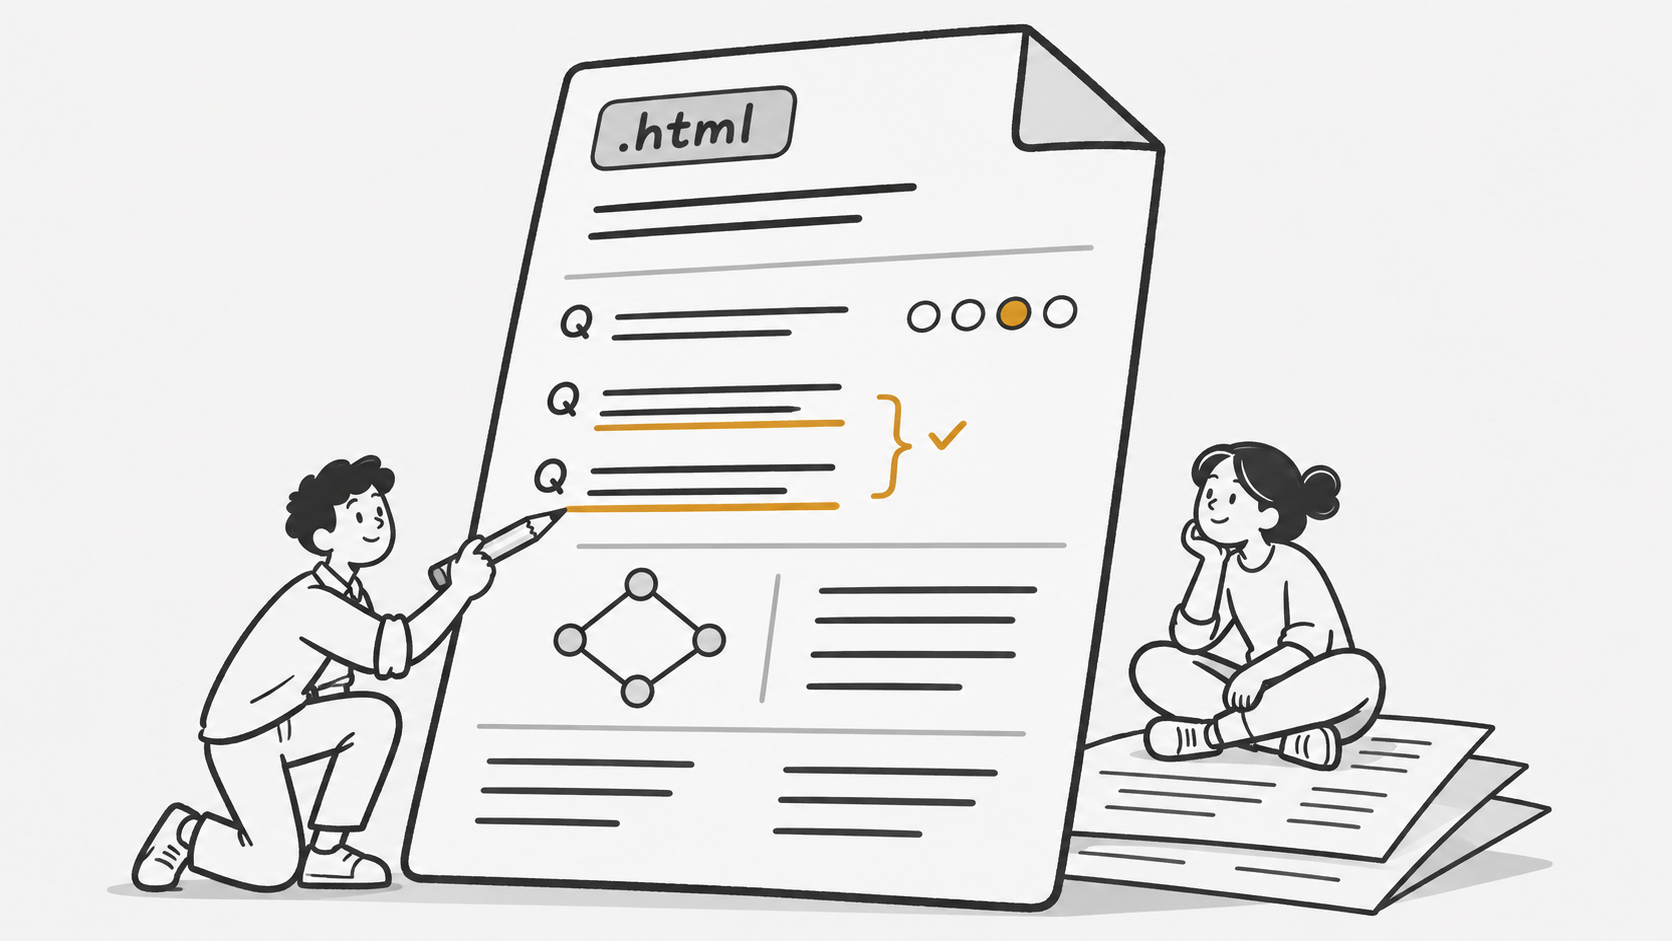
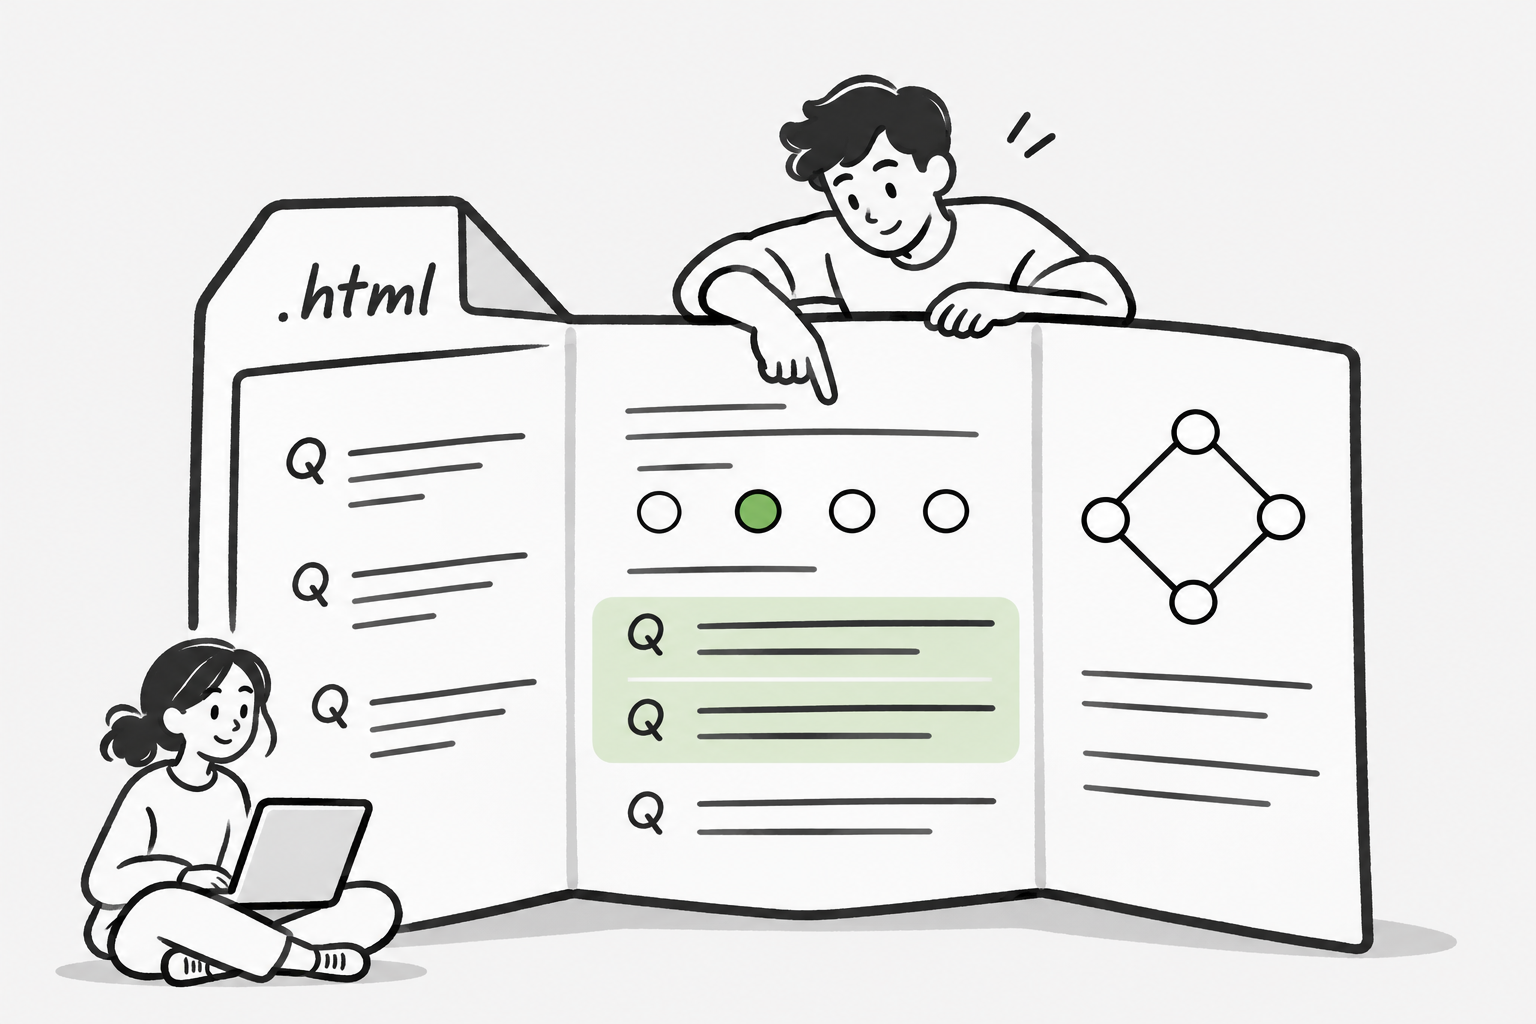
Use the foldout illustration in the README

Changed region(s): [[0.0312, 0.0, 0.9688, 0.9862]]

diff --git a/README.md b/README.md
@@ -1,6 +1,6 @@
 # One Shot HTML
 
-![Two students reviewing highlighted recurring questions and a graph in a single HTML file](assets/readme-cover.png)
+![Two students exploring a foldout HTML file with multiple-choice answers, green-highlighted questions, and a graph](assets/readme-cover.png)
 
 Student-made question-paper analyses for SRM students revising for semester exams and cycle tests. Start with [Discrete Mathematics (21MAB302T) · SEM 2026](sem-2026-21MAB302T-discrete-mathematics.html). Download the HTML file and open it in a browser.
 
